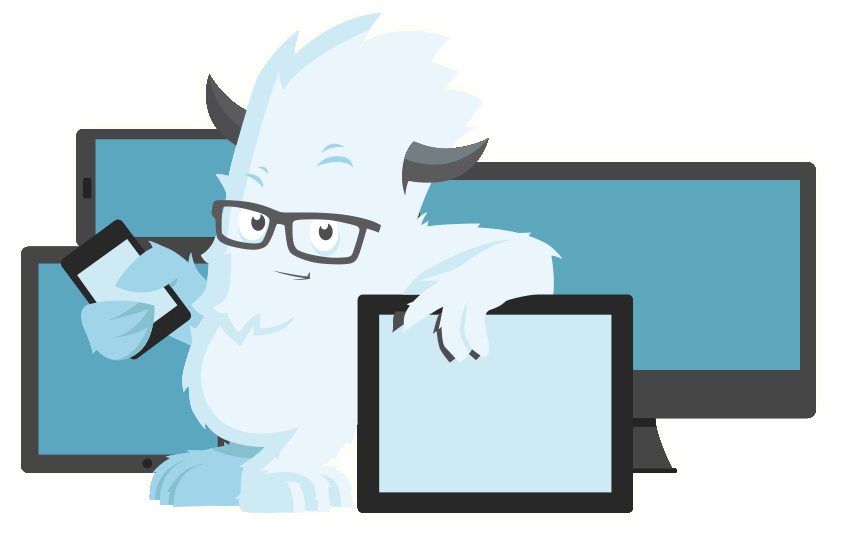
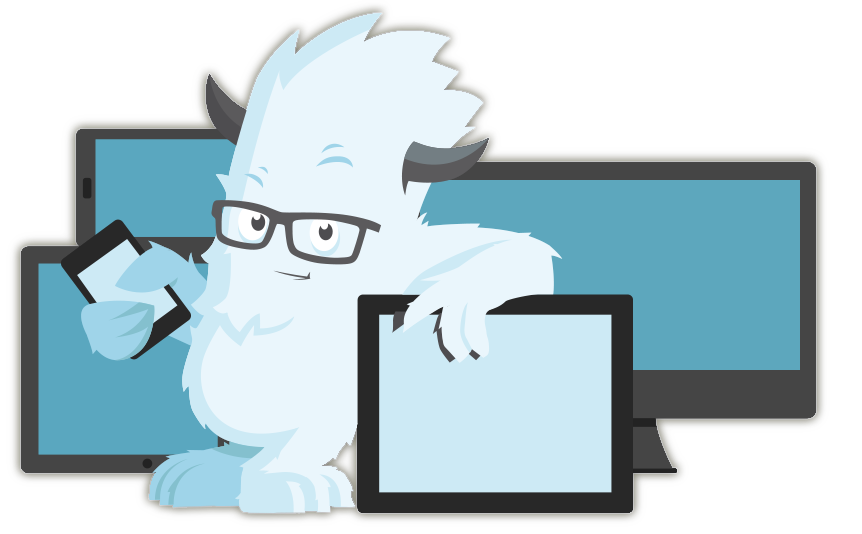
notes changes, imagery changes

diff --git a/index.html b/index.html
@@ -59,7 +59,7 @@
 			</section>
 			<section data-transition="fade">
 				<h2>Typical Development</h2>
-				<div><img src="img/multi-wheel.png" class="noshadow"></div>
+				<div><img src="img/wheels-multi-color.png" class="noshadow"></div>
 				<aside class="notes">
 					<p>A bunch of nice-looking wheels that all do the same thing.</p>
 					<p><em>(next slide, quickly)</em></p>
@@ -67,7 +67,7 @@
 			</section>
 			<section>
 				<h2>Lack of  Collaboration</h2>
-				<div class="fragment" data-fragment-index="0"><img src="img/money-1.jpg" class="noshadow"></div>
+				<div class="fragment" data-fragment-index="0"><img src="img/money-1.jpg"></div>
 				<aside class="notes">
 					<p>This lack of collaboration is terribly inefficient</p>
 					<p>It's redundant, it's a waste of time, it's a waste of money.</p>
@@ -158,7 +158,7 @@
 			<section data-transition="fade">
 				<h2>Foundation</h2>
 				<img class="noshadow" src="img/device-bg1.png">
-				<aside class="note">
+				<aside class="notes">
 					<p>Foundation is a framework made by a company called Zurb</p>
 					<p>It's modular, it's very customizable, and it provides a great base to start from</p>
 				</aside>
@@ -230,7 +230,7 @@
 				<div class="fragment">Is Modern</div>
 				<div class="fragment">Is Whimsically Magically Magnificent</div>
 			</section>
-			<section data-transition="zoom">
+			<section>
 				<h2>Built for New York State</h2>
 				<style>
 				.collage {
@@ -299,6 +299,12 @@
 						<img src="img/capitol_cropped.jpg" alt="New York State Capitol building">
 						<small>Photo credit: <a href="http://www.flickr.com/photos/jstephenconn/5425778154/">J. Stephen Conn</a></small>
 					</div>
+					<div class="fragment img-flag-fuzzy" data-fragment-index="1">
+						<img src="img/flag_big_fuzzy.jpg" alt="New York State Flag">
+					</div>
+					<div class="fragment img-flag-clear" data-fragment-index="2">
+						<img src="img/flag_big_clear.png" alt="New York State Flag">
+					</div>
 				</div>
 				<aside class="notes">
 					E - But what would we call such a thing?<br>
@@ -307,19 +313,6 @@
 					C - It’s right there (points) to the new square outline<br>
 					E - I still can't see it though<br>
 					C - Let me zoom in on it<br>
-				</aside>
-			</section>
-			<section data-transition="zoom">
-				<h2>Built for New York State</h2>
-				<div class="collage">
-					<div class="img-flag-fuzzy" data-fragment-index="1">
-						<img src="img/flag_big_fuzzy.jpg" alt="New York State Flag">
-					</div>
-					<div class="fragment img-flag-clear" data-fragment-index="2">
-						<img src="img/flag_big_clear.png" alt="New York State Flag">
-					</div>
-				</div>	
-				<aside class="notes">
 					E - Okay, can you enhance that?
 				</aside>
 			</section>
@@ -368,8 +361,7 @@
 				<aside class="notes">
 					Use it how you want<br>
 					Edit it until the cows come home.<br>
-					be as opinionated about it as you want, it's not gif-gate 2010.<br>
-					You can help mold its future<br>
+					You have a say in its creation, you can help mold its future<br>
 					That is the basis of Excelsior's mission:
 				</aside>
 			</section>
@@ -385,7 +377,8 @@
 					</blockquote>
 				</div>
 				<aside class="notes">Many talented devs across NYS<br>
-					Let's make this the best RWD framework
+					Let's make this the best RWD framework<br>
+					Excelsior literally means, Ever Upward, We're always looking ahead, never behind too far.
 				</aside>
 			</section>
 			<section>

diff --git a/css/theme/beige.css b/css/theme/beige.css
@@ -81,7 +81,7 @@ body {
   margin: 15px 0px;
   background: rgba(255, 255, 255, 0.12);
   border: 4px solid #333333;
-  box-shadow: 0 0 10px rgba(0, 0, 0, 0.15);
+  box-shadow: 0 0 10px rgba(0, 0, 0, 0.55);
   -webkit-transition: all .2s linear;
   transition: all .2s linear; }
   .reveal section img.noshadow {
@@ -160,3 +160,7 @@ strike {
 
 strike {
   background-image: url(../../img/strike-through-dark.png); }
+
+.reveal blockquote {
+  background: rgba(255, 255, 255, 0.65);
+  box-shadow: 0px 0px 5px rgba(0, 0, 0, 0.55); }

diff --git a/css/theme/default.css b/css/theme/default.css
@@ -81,7 +81,7 @@ body {
   margin: 15px 0px;
   background: rgba(255, 255, 255, 0.12);
   border: 4px solid #eeeeee;
-  box-shadow: 0 0 10px rgba(0, 0, 0, 0.15);
+  box-shadow: 0 0 10px rgba(0, 0, 0, 0.55);
   -webkit-transition: all .2s linear;
   transition: all .2s linear; }
   .reveal section img.noshadow {

diff --git a/css/theme/moon.css b/css/theme/moon.css
@@ -81,7 +81,7 @@ body {
   margin: 15px 0px;
   background: rgba(255, 255, 255, 0.12);
   border: 4px solid #93a1a1;
-  box-shadow: 0 0 10px rgba(0, 0, 0, 0.15);
+  box-shadow: 0 0 10px rgba(0, 0, 0, 0.55);
   -webkit-transition: all .2s linear;
   transition: all .2s linear; }
   .reveal section img.noshadow {

diff --git a/css/theme/night.css b/css/theme/night.css
@@ -69,7 +69,7 @@ body {
   margin: 15px 0px;
   background: rgba(255, 255, 255, 0.12);
   border: 4px solid #eeeeee;
-  box-shadow: 0 0 10px rgba(0, 0, 0, 0.15);
+  box-shadow: 0 0 10px rgba(0, 0, 0, 0.55);
   -webkit-transition: all .2s linear;
   transition: all .2s linear; }
   .reveal section img.noshadow {

diff --git a/css/theme/sky.css b/css/theme/sky.css
@@ -75,7 +75,7 @@ body {
   margin: 15px 0px;
   background: rgba(255, 255, 255, 0.12);
   border: 4px solid #333333;
-  box-shadow: 0 0 10px rgba(0, 0, 0, 0.15);
+  box-shadow: 0 0 10px rgba(0, 0, 0, 0.55);
   -webkit-transition: all .2s linear;
   transition: all .2s linear; }
   .reveal section img.noshadow {

diff --git a/css/theme/solarized.css b/css/theme/solarized.css
@@ -81,7 +81,7 @@ body {
   margin: 15px 0px;
   background: rgba(255, 255, 255, 0.12);
   border: 4px solid #657b83;
-  box-shadow: 0 0 10px rgba(0, 0, 0, 0.15);
+  box-shadow: 0 0 10px rgba(0, 0, 0, 0.55);
   -webkit-transition: all .2s linear;
   transition: all .2s linear; }
   .reveal section img.noshadow {

diff --git a/css/theme/serif.css b/css/theme/serif.css
@@ -69,7 +69,7 @@ body {
   margin: 15px 0px;
   background: rgba(255, 255, 255, 0.12);
   border: 4px solid black;
-  box-shadow: 0 0 10px rgba(0, 0, 0, 0.15);
+  box-shadow: 0 0 10px rgba(0, 0, 0, 0.55);
   -webkit-transition: all .2s linear;
   transition: all .2s linear; }
   .reveal section img.noshadow {

diff --git a/css/theme/simple.css b/css/theme/simple.css
@@ -71,7 +71,7 @@ body {
   margin: 15px 0px;
   background: rgba(255, 255, 255, 0.12);
   border: 4px solid black;
-  box-shadow: 0 0 10px rgba(0, 0, 0, 0.15);
+  box-shadow: 0 0 10px rgba(0, 0, 0, 0.55);
   -webkit-transition: all .2s linear;
   transition: all .2s linear; }
   .reveal section img.noshadow {

diff --git a/css/theme/source/beige.scss b/css/theme/source/beige.scss
@@ -51,3 +51,8 @@ $heading1TextShadow: 0 1px 0 #ccc, 0 2px 0 #c9c9c9, 0 3px 0 #bbb, 0 4px 0 #b9b9b
 strike {
     background-image: url(../../img/strike-through-dark.png);
 }
+
+.reveal blockquote {
+	background: rgba(255, 255, 255, 0.65);
+	box-shadow: 0px 0px 5px rgba(0,0,0,0.55);
+}

diff --git a/plugin/notes/notes.html b/plugin/notes/notes.html
@@ -12,8 +12,10 @@
 
 			#notes {
 				font-size: 24px;
-				width: 640px;
+				xwidth: 640px;
 				margin-top: 5px;
+				float:left; /* This makes the notes full width to the screen, easier reading, less bugged out too long text.*/
+				clear:both;
 			}
 
 			#wrap-current-slide {

diff --git a/css/theme/template/theme.scss b/css/theme/template/theme.scss
@@ -82,7 +82,7 @@ body {
 	background: rgba(255,255,255,0.12);
 	border: 4px solid $mainColor;
 
-	box-shadow: 0 0 10px rgba(0, 0, 0, 0.15);
+	box-shadow: 0 0 10px rgba(0, 0, 0, 0.55);
 
 	-webkit-transition: all .2s linear;
 	        transition: all .2s linear;
